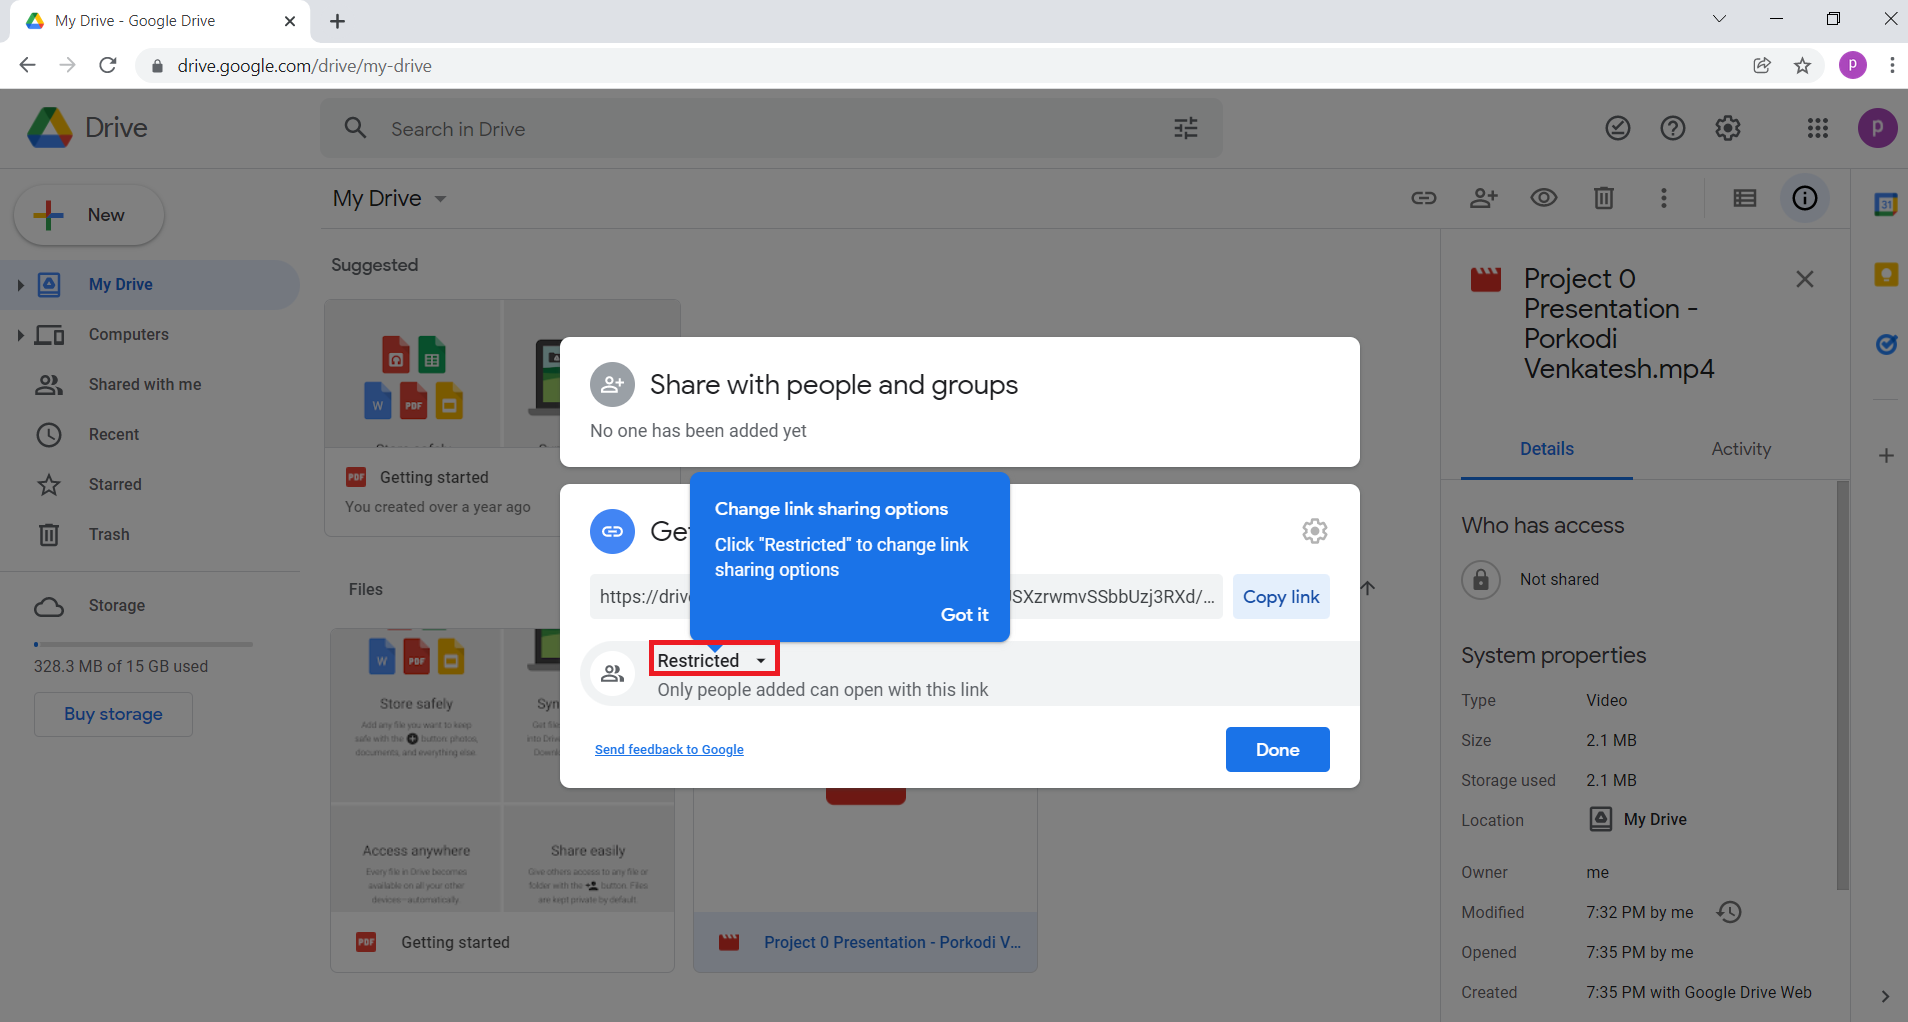
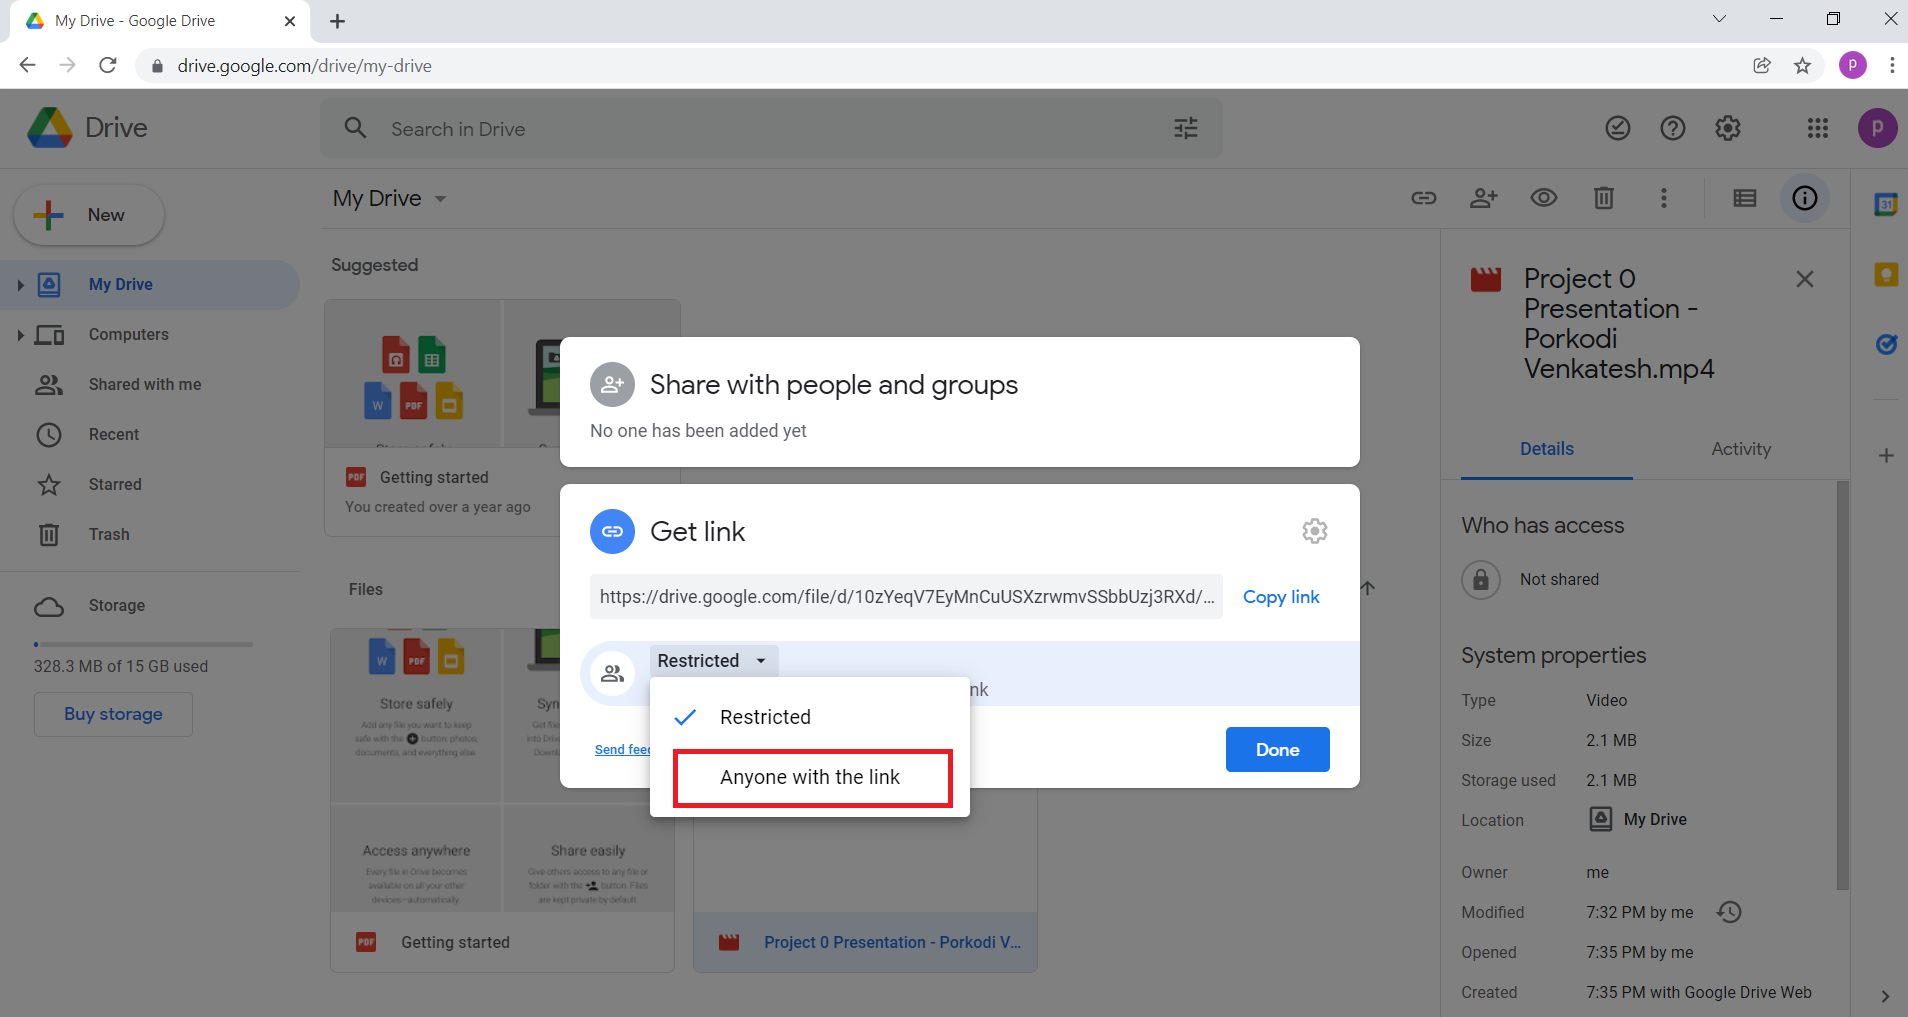
updated zoom and google steps

diff --git a/index.md b/index.md
@@ -28,9 +28,7 @@ Please adhere to the following steps:
 
 ![](./images/image5.PNG)
 
-- 
-
-
+-  Now all set for you. You can go ahead and start your presentation.
 
 Your Presentation should be  **atleast 5-10 mins** recorded video and adhere to the following instructions: 
 
@@ -47,8 +45,53 @@ Your Presentation should be  **atleast 5-10 mins** recorded video and adhere to 
   - Discuss the ideas you’ve future enhancement (if you have)
   - Close your Project Presentation with a Thank you Note
 
+After that, follow below steps to get your zoom recordings:
+
+- Click on the **Stop Share** on your meeting controls to stop the screen sharing.
+
+![](./images/image6.png)
+
+- To Stop recording, click on **Pause/Stop Recording** located at your meeting controls.
+
+![](./images/image7.png)
+
+- Click **End** -> **End Meeting for all** to end the meeting. 
+
+![](./images/image8.png)
+
+- Once you ended the meeting, **Convert Meeting Recording** windows pops up which converts your presentation into video recordings.
+
+![](./images/image9.png)
+
+- When conversion is completed, your recording is saved on your desktop device to its own folder labeled with the date, time, and meeting name. By default, these folders are inside the Zoom folder, located inside the Documents folder on Windows, macOS, and Linux.
+
+![](./images/image10.png)
+
+- Rename your video to **Project 0 Presentation - Your_Full_Name**. 
+
+![](./images/image11.png)
+
+Now, your recording is ready. You can upload this video recording to Google Drive and submit it for review.
+
 ## Upload recorded video to Google Drive
 
+To upload recorded video to Google Drive and create a shareable link, please adhere to the following steps:
+
+- Go to [drive.google.com](https://drive.google.com/)
+- At the top left, click **New** and then  **File Upload**.
+- Choose the recorded video file (Project 0 Presentation - Your_Full_Name) to upload.
+
+![](./images/image12.png)
+
+- Now, Right click on the uploaded recorded video file and select **Get Link**
+
+![](./images/image13.png)
+
+- Next to Restricted, there is a down arrow. Click on that down arrow and change the permissions from Restricted to **Anyone with the link**.
+
+![](./images/images14.png)
+
+- Once Permission is updated, Click to the **Copy Link** to copy the shareable link to the Clipboard. Then, paste the link in the [Project 0 Submissions Form](https://forms.office.com/r/KNyE8qaezj).
 
 
 ## Push your Project 0 code to GitHub
@@ -56,13 +99,13 @@ Your Presentation should be  **atleast 5-10 mins** recorded video and adhere to 
 - In GitHub, Create a Public Repo with a Repo Name as your Project Name. 
 - Push your properly documented project code to the repo. 
 - Repo should have a README file with at least with - Title of the Project, An Explanation and Overview of the project, List of features implemented, Technologies used, how to set up / get started using it, and Usage of the project. You can have a look at the [Sample README.md file template](https://github.com/PorkodiVenkatesh/PROJECT-NAME) for your project documentation. 
-- After the above steps, copy the Project Repo URL and paste the link in the [Project 0 Submission Form](https://forms.office.com/r/KNyE8qaezj).
+- After the above steps, copy the Project Repo URL and paste the link in the [Project 0 Submissions Form](https://forms.office.com/r/KNyE8qaezj).
 
 ![](./images/GithubProjectUrl.png)
 
 ## Submit resources link for Review
 
-Open the [Project 0 Submission Form](https://forms.office.com/r/KNyE8qaezj) and fill all the required fields – Full Name, Email ID, Batch, Project 0 Title, Recorded Project 0 Presentation video link, and Project 0 Repo URL. Then, Submit the Form. 
+Open the [Project 0 Submissions Form](https://forms.office.com/r/KNyE8qaezj) and fill all the required fields – Full Name, Email ID, Batch, Project 0 Title, Recorded Project 0 Presentation video link, and Project 0 Repo URL. Then, Submit the Form. 
 
 After that QC team review your Recorded Project 0 Presentation video and your project code.  
 
